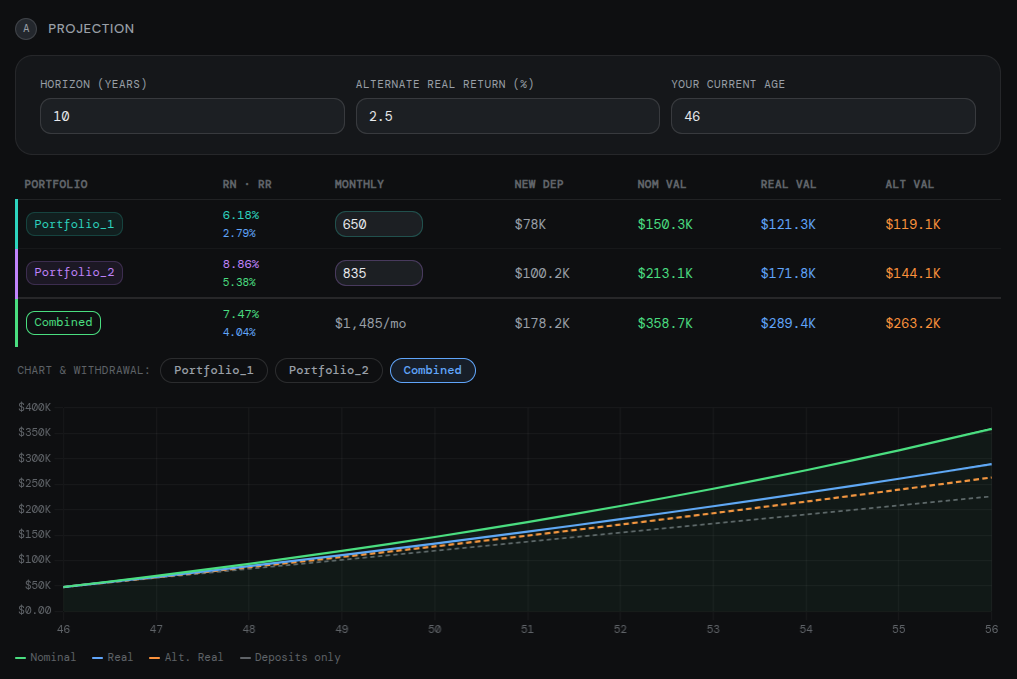
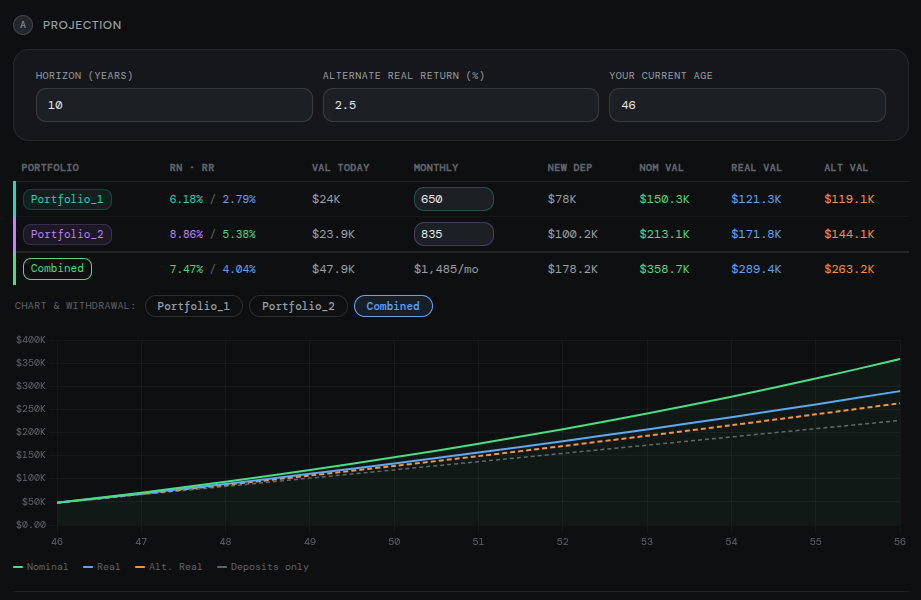
v1.3.1

diff --git a/portfolio-tracker-v1.3.1.html b/portfolio-tracker-v1.3.1.html
@@ -9,7 +9,7 @@
 <head>
 <meta charset="UTF-8">
 <meta name="viewport" content="width=device-width, initial-scale=1.0">
-<title>Portfolio Tracker v1.3.0</title>
+<title>Portfolio Tracker v1.3.1</title>
 <link href="https://fonts.googleapis.com/css2?family=DM+Mono:wght@300;400;500&family=DM+Sans:wght@300;400;500&display=swap" rel="stylesheet">
 <style>
 :root{
@@ -165,7 +165,7 @@ body{background:var(--bg);color:var(--text);font-family:var(--sans);font-size:14
     <div class="logo-icon">&#9672;</div>
     <div>
       <div class="logo-text" id="hd-title">Portfolio Tracker</div>
-      <div class="logo-sub">v1.3.0</div>
+      <div class="logo-sub">v1.3.1</div>
     </div>
   </div>
   <div style="display:flex;align-items:center;gap:12px;">
@@ -1038,6 +1038,7 @@ function renderProjTable(){
     +'<thead><tr>'
     +'<th style="'+TH+'">'+(lang==='es'?'Cartera':'Portfolio')+'</th>'
     +'<th style="'+TH+'">'+(lang==='es'?'rn · rr':'rn · rr')+'</th>'
+    +'<th style="'+TH+'">'+(lang==='es'?'VAL hoy':'VAL today')+'</th>'
     +'<th style="'+TH+'">'+(lang==='es'?'Dep/mes':'Monthly')+'</th>'
     +'<th style="'+TH+'">'+(lang==='es'?'Dep. nuevos':'New dep')+'</th>'
     +'<th style="'+TH+'">'+(lang==='es'?'VAL nom':'Nom VAL')+'</th>'
@@ -1052,6 +1053,7 @@ function renderProjTable(){
       +'<td style="'+TD+'border-left:3px solid '+c+';">'
       +'<span class="p-tag" style="border-color:'+c+'33;color:'+c+';background:'+c+'14;font-size:11px;">'+p+'</span></td>'
       +'<td style="'+TD+'" id="pt-rates-'+idx+'">--</td>'
+      +'<td style="'+TD+'color:var(--text2);" id="pt-val-'+idx+'">--</td>'
       +'<td style="'+TD+'"><input class="form-input" type="number" placeholder="0" value="'+v+'" min="0" step="50"'
       +' style="width:80px;padding:3px 6px;font-size:12px;border-color:'+c+'44;"'
       +' oninput="portfolioMonthly[\''+p+'\']=parseFloat(this.value)||0;saveAll();updateProjection();"></td>'
@@ -1066,6 +1068,7 @@ function renderProjTable(){
     +'<td style="'+TC+'border-left:3px solid var(--accent);">'
     +'<span class="p-tag" style="border-color:var(--accent)33;color:var(--accent);background:var(--accent)14;font-size:11px;">'+(lang==='es'?'Combinado':'Combined')+'</span></td>'
     +'<td style="'+TC+'" id="pt-rates-comb">--</td>'
+    +'<td style="'+TC+'color:var(--text2);" id="pt-val-comb">--</td>'
     +'<td style="'+TC+'color:var(--text2);" id="pt-mo-comb">--</td>'
     +'<td style="'+TC+'color:var(--text2);" id="pt-new-comb">--</td>'
     +'<td style="'+TC+'color:var(--accent);" id="pt-nom-comb">--</td>'
@@ -1161,6 +1164,7 @@ function updateProjection(){
     var monthly=portfolioMonthly[p]||0;
     var ratesEl=document.getElementById('pt-rates-'+idx);
     if(rn===null||!val){
+      var ve=document.getElementById('pt-val-'+idx); if(ve) ve.textContent='--';
       document.getElementById('pt-new-'+idx).textContent='--';
       document.getElementById('pt-nom-'+idx).textContent='--';
       document.getElementById('pt-real-'+idx).textContent='--';
@@ -1171,8 +1175,10 @@ function updateProjection(){
     var rr=(1+rn)/(1+inf)-1;
     var c=pColor(p);
     if(ratesEl) ratesEl.innerHTML=
-      '<span style="display:block;color:'+c+';font-size:11px;">'+(rn*100).toFixed(2)+'%</span>'
-      +'<span style="display:block;color:'+rrQualityColor(rr)+';font-size:10px;">'+(rr*100).toFixed(2)+'%</span>';
+      '<span style="color:'+c+';font-size:11px;">'+(rn*100).toFixed(2)+'%</span>'
+      +'<span style="color:var(--text3);font-size:11px;"> / </span>'
+      +'<span style="color:'+rrQualityColor(rr)+';font-size:11px;">'+(rr*100).toFixed(2)+'%</span>';
+    var ve=document.getElementById('pt-val-'+idx); if(ve) ve.textContent=fmtUSD(val);
     document.getElementById('pt-new-'+idx).textContent=fmtUSD(monthly*12*years);
     document.getElementById('pt-nom-'+idx).textContent=fmtUSD(projectFV(val,monthly,rn,years));
     document.getElementById('pt-real-'+idx).textContent=fmtUSD(projectFV(val,monthly,rr,years));
@@ -1190,8 +1196,10 @@ function updateProjection(){
       var rr_c=(1+combinedR)/(1+inf)-1;
       var combRatesEl=document.getElementById('pt-rates-comb');
       if(combRatesEl) combRatesEl.innerHTML=
-        '<span style="display:block;color:var(--accent);font-size:11px;">'+(combinedR*100).toFixed(2)+'%</span>'
-        +'<span style="display:block;color:'+rrQualityColor(rr_c)+';font-size:10px;">'+(rr_c*100).toFixed(2)+'%</span>';
+        '<span style="color:var(--accent);font-size:11px;">'+(combinedR*100).toFixed(2)+'%</span>'
+        +'<span style="color:var(--text3);font-size:11px;"> / </span>'
+        +'<span style="color:'+rrQualityColor(rr_c)+';font-size:11px;">'+(rr_c*100).toFixed(2)+'%</span>';
+      var vce=document.getElementById('pt-val-comb'); if(vce) vce.textContent=fmtUSD(combVAL);
       document.getElementById('pt-mo-comb').textContent='$'+Math.round(combMo).toLocaleString()+'/mo';
       document.getElementById('pt-new-comb').textContent=fmtUSD(combMo*12*years);
       document.getElementById('pt-nom-comb').textContent=fmtUSD(projectFV(combVAL,combMo,combinedR,years));

diff --git a/CHANGELOG.md b/CHANGELOG.md
@@ -4,6 +4,13 @@ All notable changes to Portfolio Tracker are documented here.
 
 ---
 
+## [v1.3.1] — 2026-04-26
+
+### Changed
+- **VAL today column added to Step 3 projection table** — a new "VAL today" column sits between rn·rr and Monthly, showing the current VAL for each portfolio and the combined total. Makes the handoff from Step 2 explicit: the user sees the starting value, the rates, and the projected values all in one row.
+
+---
+
 ## [v1.3.0] — 2026-04-26
 
 ### Added
